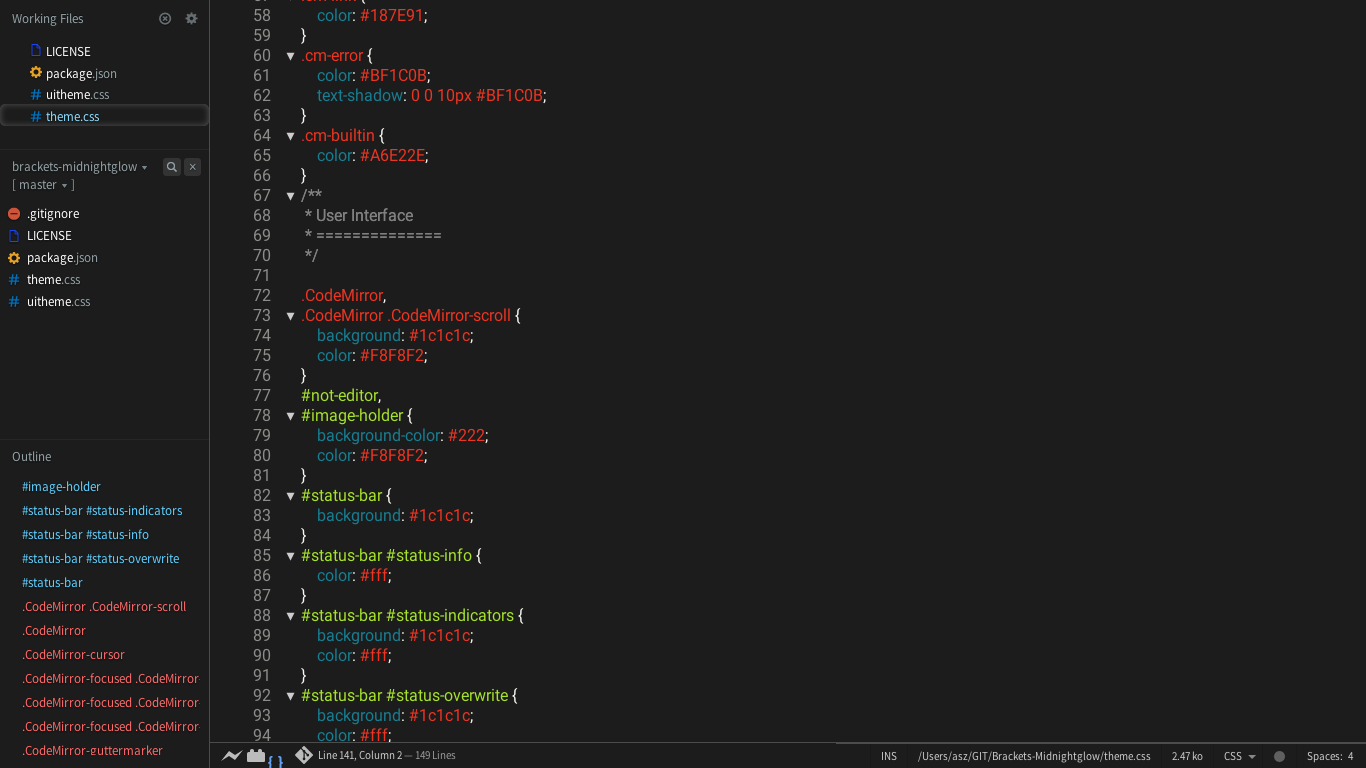
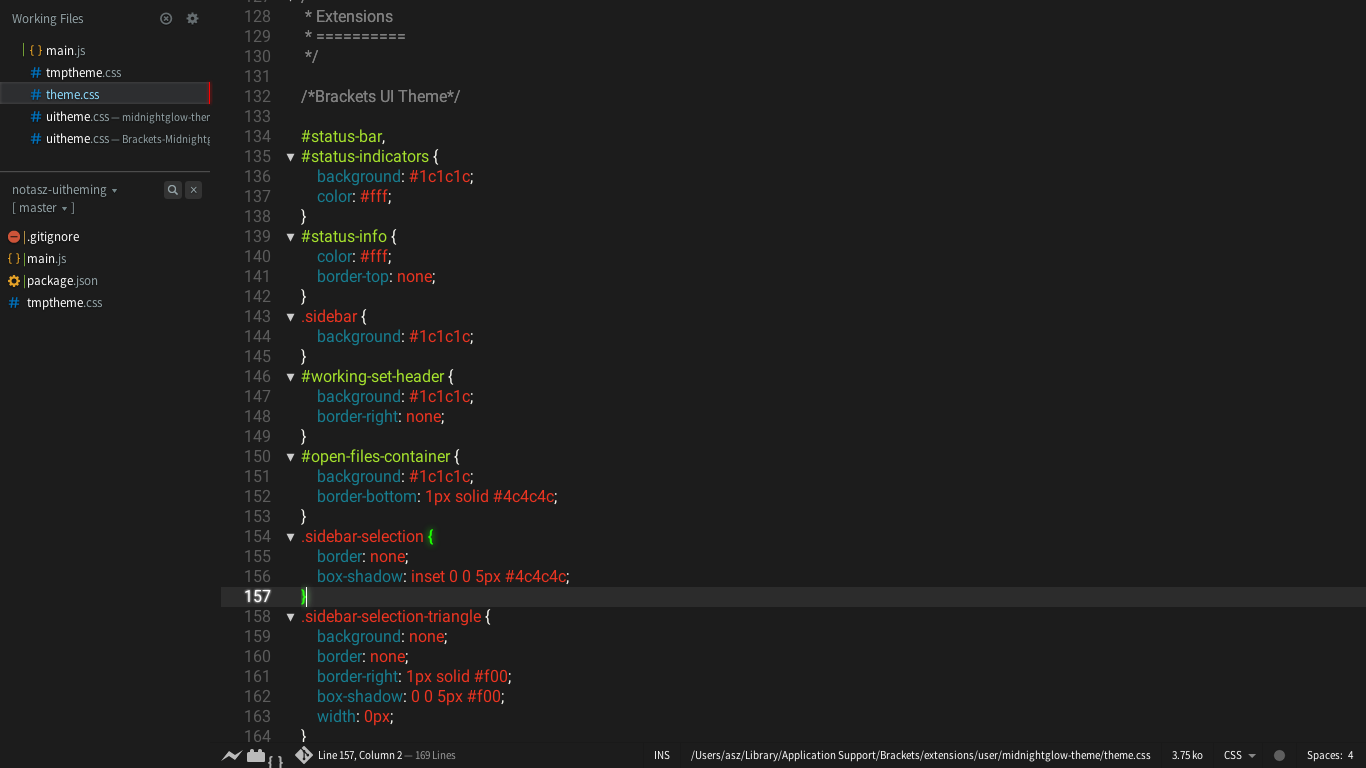
Updated UI theme and integrated the code into the main css file.

diff --git a/theme.css b/theme.css
@@ -74,25 +74,6 @@
     background: #1c1c1c;
     color: #F8F8F2;
 }
-#not-editor,
-#image-holder {
-    background-color: #222;
-    color: #F8F8F2;
-}
-#status-bar {
-    background: #1c1c1c;
-}
-#status-bar #status-info {
-    color: #fff;
-}
-#status-bar #status-indicators {
-    background: #1c1c1c;
-    color: #fff;
-}
-#status-bar #status-overwrite {
-    background: #1c1c1c;
-    color: #fff;
-}
 .CodeMirror {
     border-left-color: #1B1B1B;
     background: #1c1c1c;
@@ -110,7 +91,7 @@ div.CodeMirror-selected {
     color: #272822;
 }
 .CodeMirror-linenumber {
-    color: #8D8D8A;
+    color: #5c5c5c;
 }
 .CodeMirror-cursor {
     border-left: 1px solid #fff !important;
@@ -141,9 +122,48 @@ div.CodeMirror-selected {
 }
 .CodeMirror-matchingtag {
     background-color: transparent;
-    text-shadow: 0 0 10px;
+    border-bottom: 1px solid #1dff00;
 }
 /**
  * Extensions
  * ==========
  */
+
+/*Brackets UI Theme*/
+
+#status-bar,
+#status-indicators {
+    background: #1c1c1c;
+    color: #fff;
+}
+#status-info {
+    color: #fff;
+    border-top: none;
+}
+.sidebar {
+    background: #1c1c1c;
+}
+#working-set-header {
+    background: #1c1c1c;
+    border-right: none;
+}
+#open-files-container {
+    background: #1c1c1c;
+    border-bottom: 1px solid #4c4c4c;
+}
+.sidebar-selection {
+    border: none;
+    box-shadow: inset 0 0 5px #4c4c4c;
+}
+.sidebar-selection-triangle {
+    background: none;
+    border: none;
+    border-right: 1px solid #f00;
+    box-shadow: 0 0 5px #f00;
+    width: 0px;
+}
+.sidebar-selection-triangle.triangle-visible:before {
+    background: none;
+    border: none;
+    display: none;
+}

diff --git a/readme.md b/readme.md
@@ -15,7 +15,9 @@ Screenshots
 
 Notes
 ---
-Please note that the screenshots show the overall UI themed (including the sidebar and such) but this is not currently possible with standard bracket theming so it is not enabled by default. The included extra UI theme file is included for those that know how to enable it, but it is not considered supported at this time.
+Please note that the screenshots show the overall UI themed (including the sidebar and such) but this is not currently possible with standard bracket theming so it is not enabled by default. The CSS for the UI theme is included in the main ```theme.css``` file, but is only able to be used by other extensions that enable such functionality.
+
+08/14/14 -- Removed UITheme.css file, included instead in theme.css file. Changed working file selection UI theme to be less bad.
 
 License
 ---
